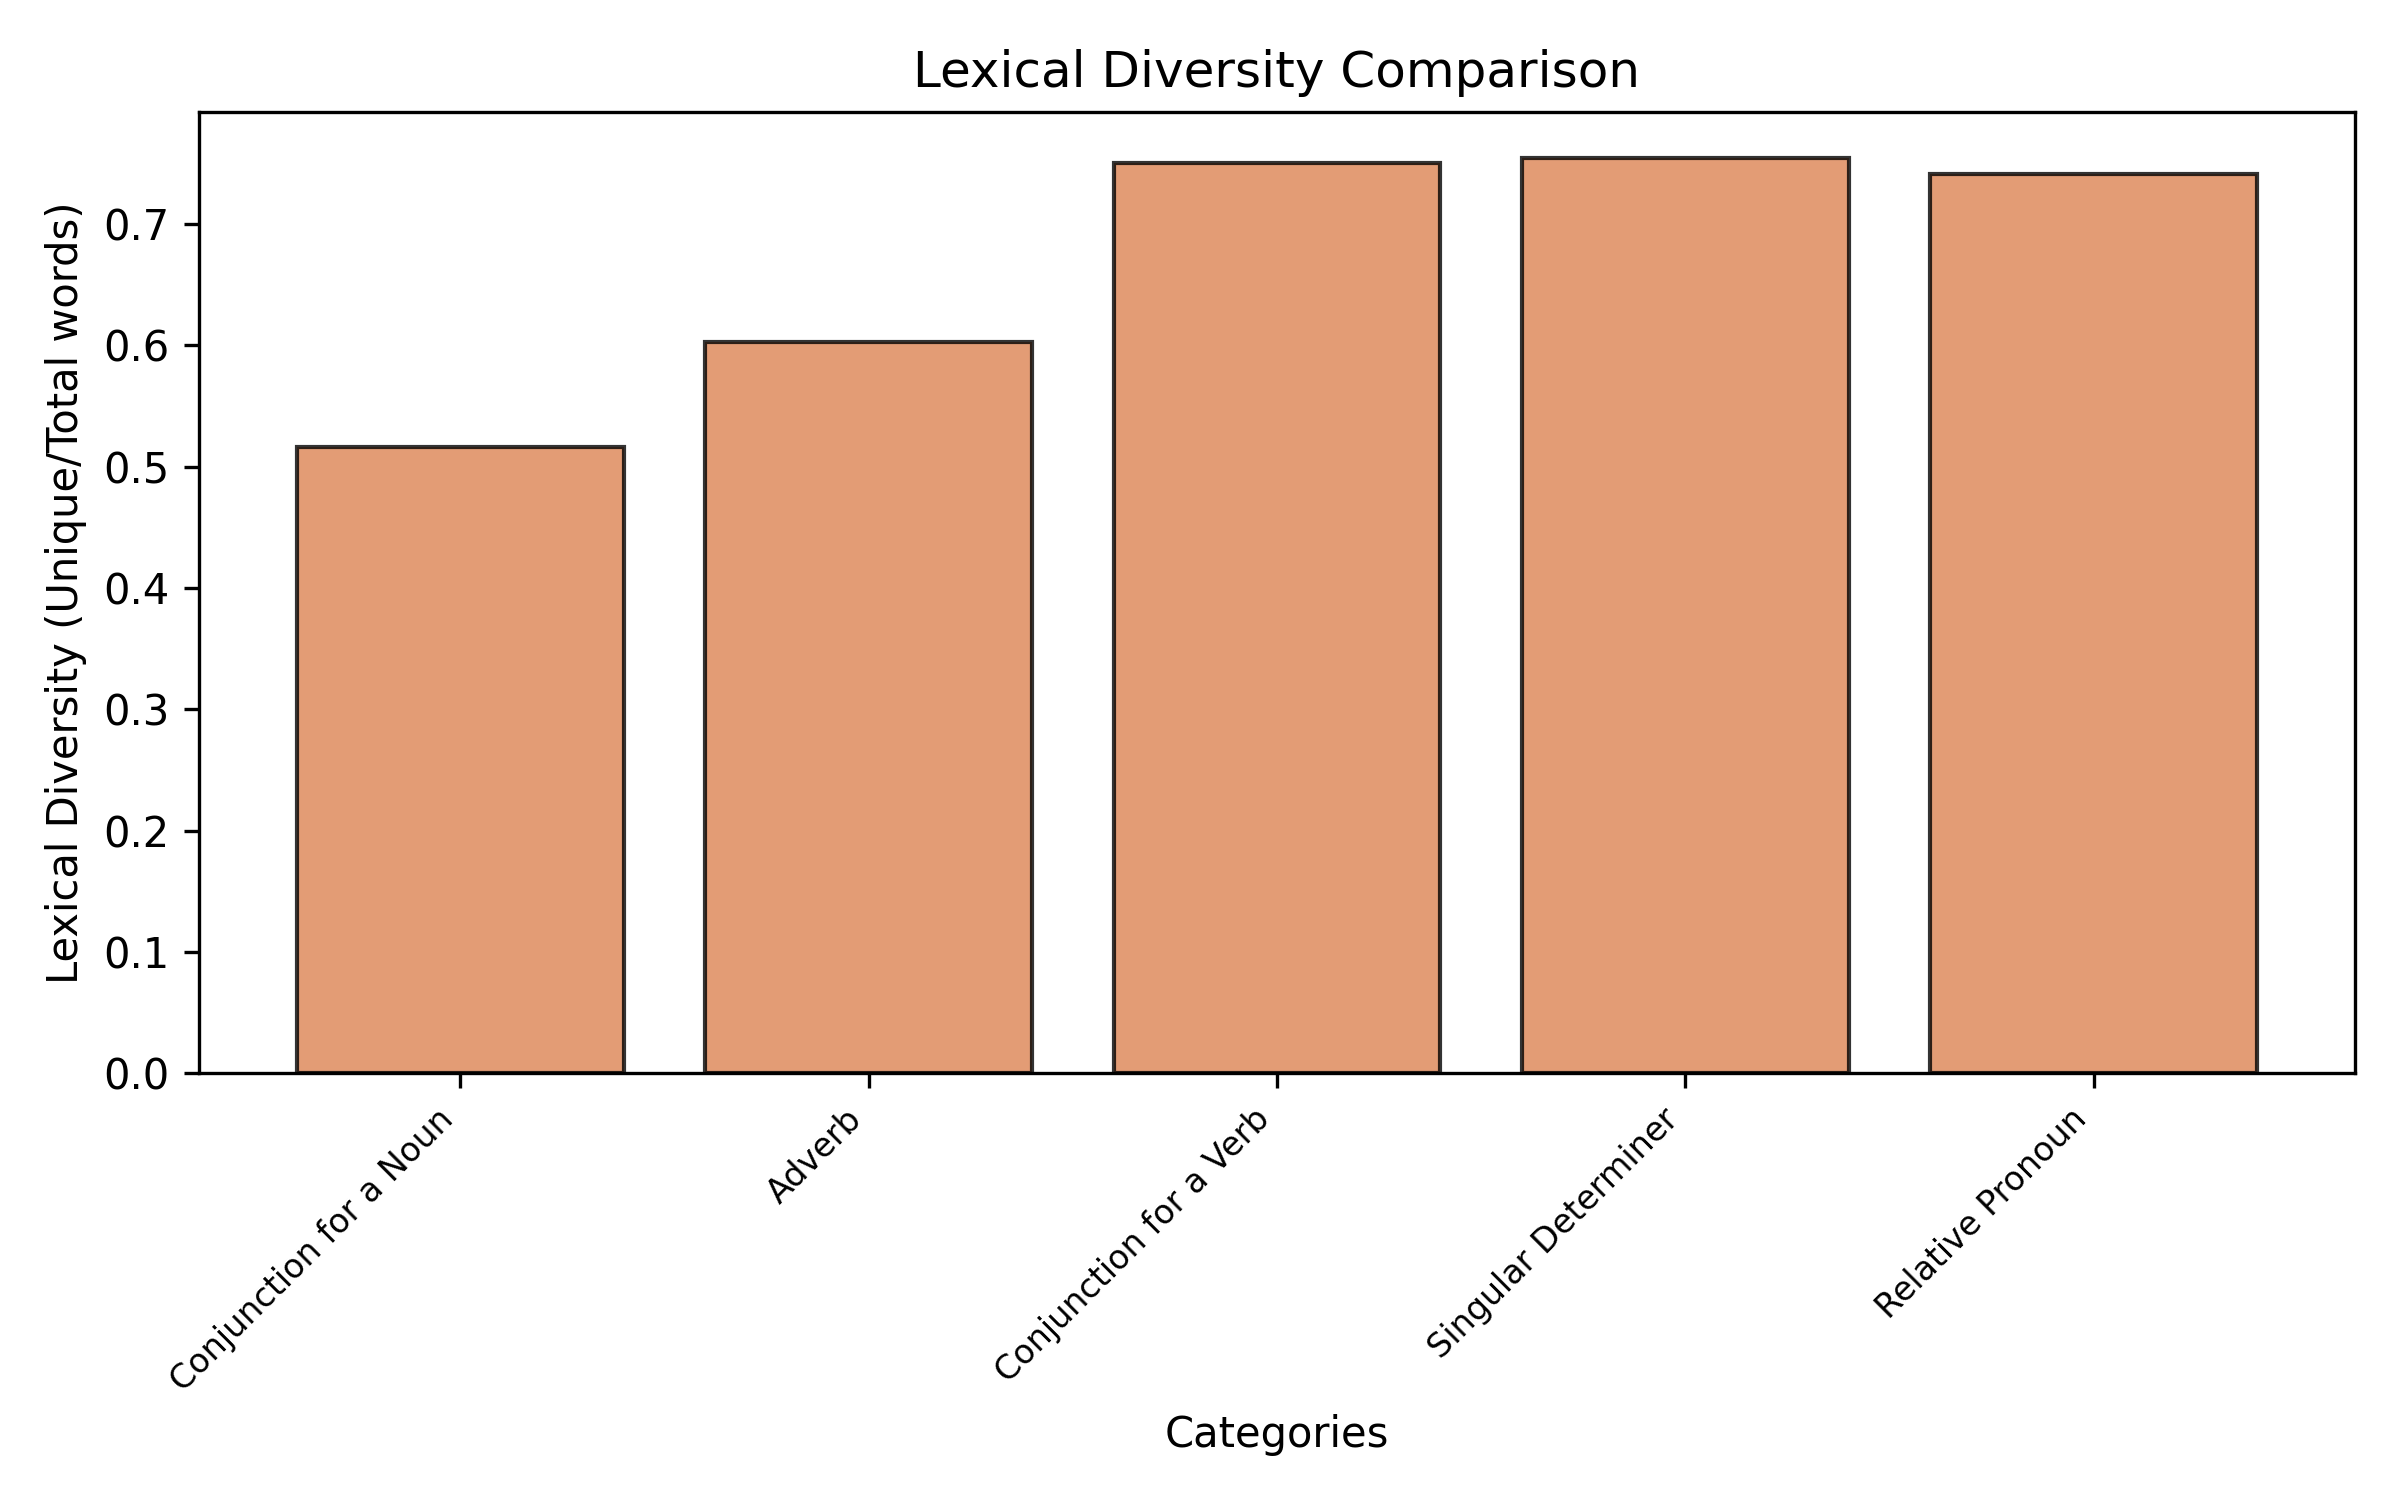
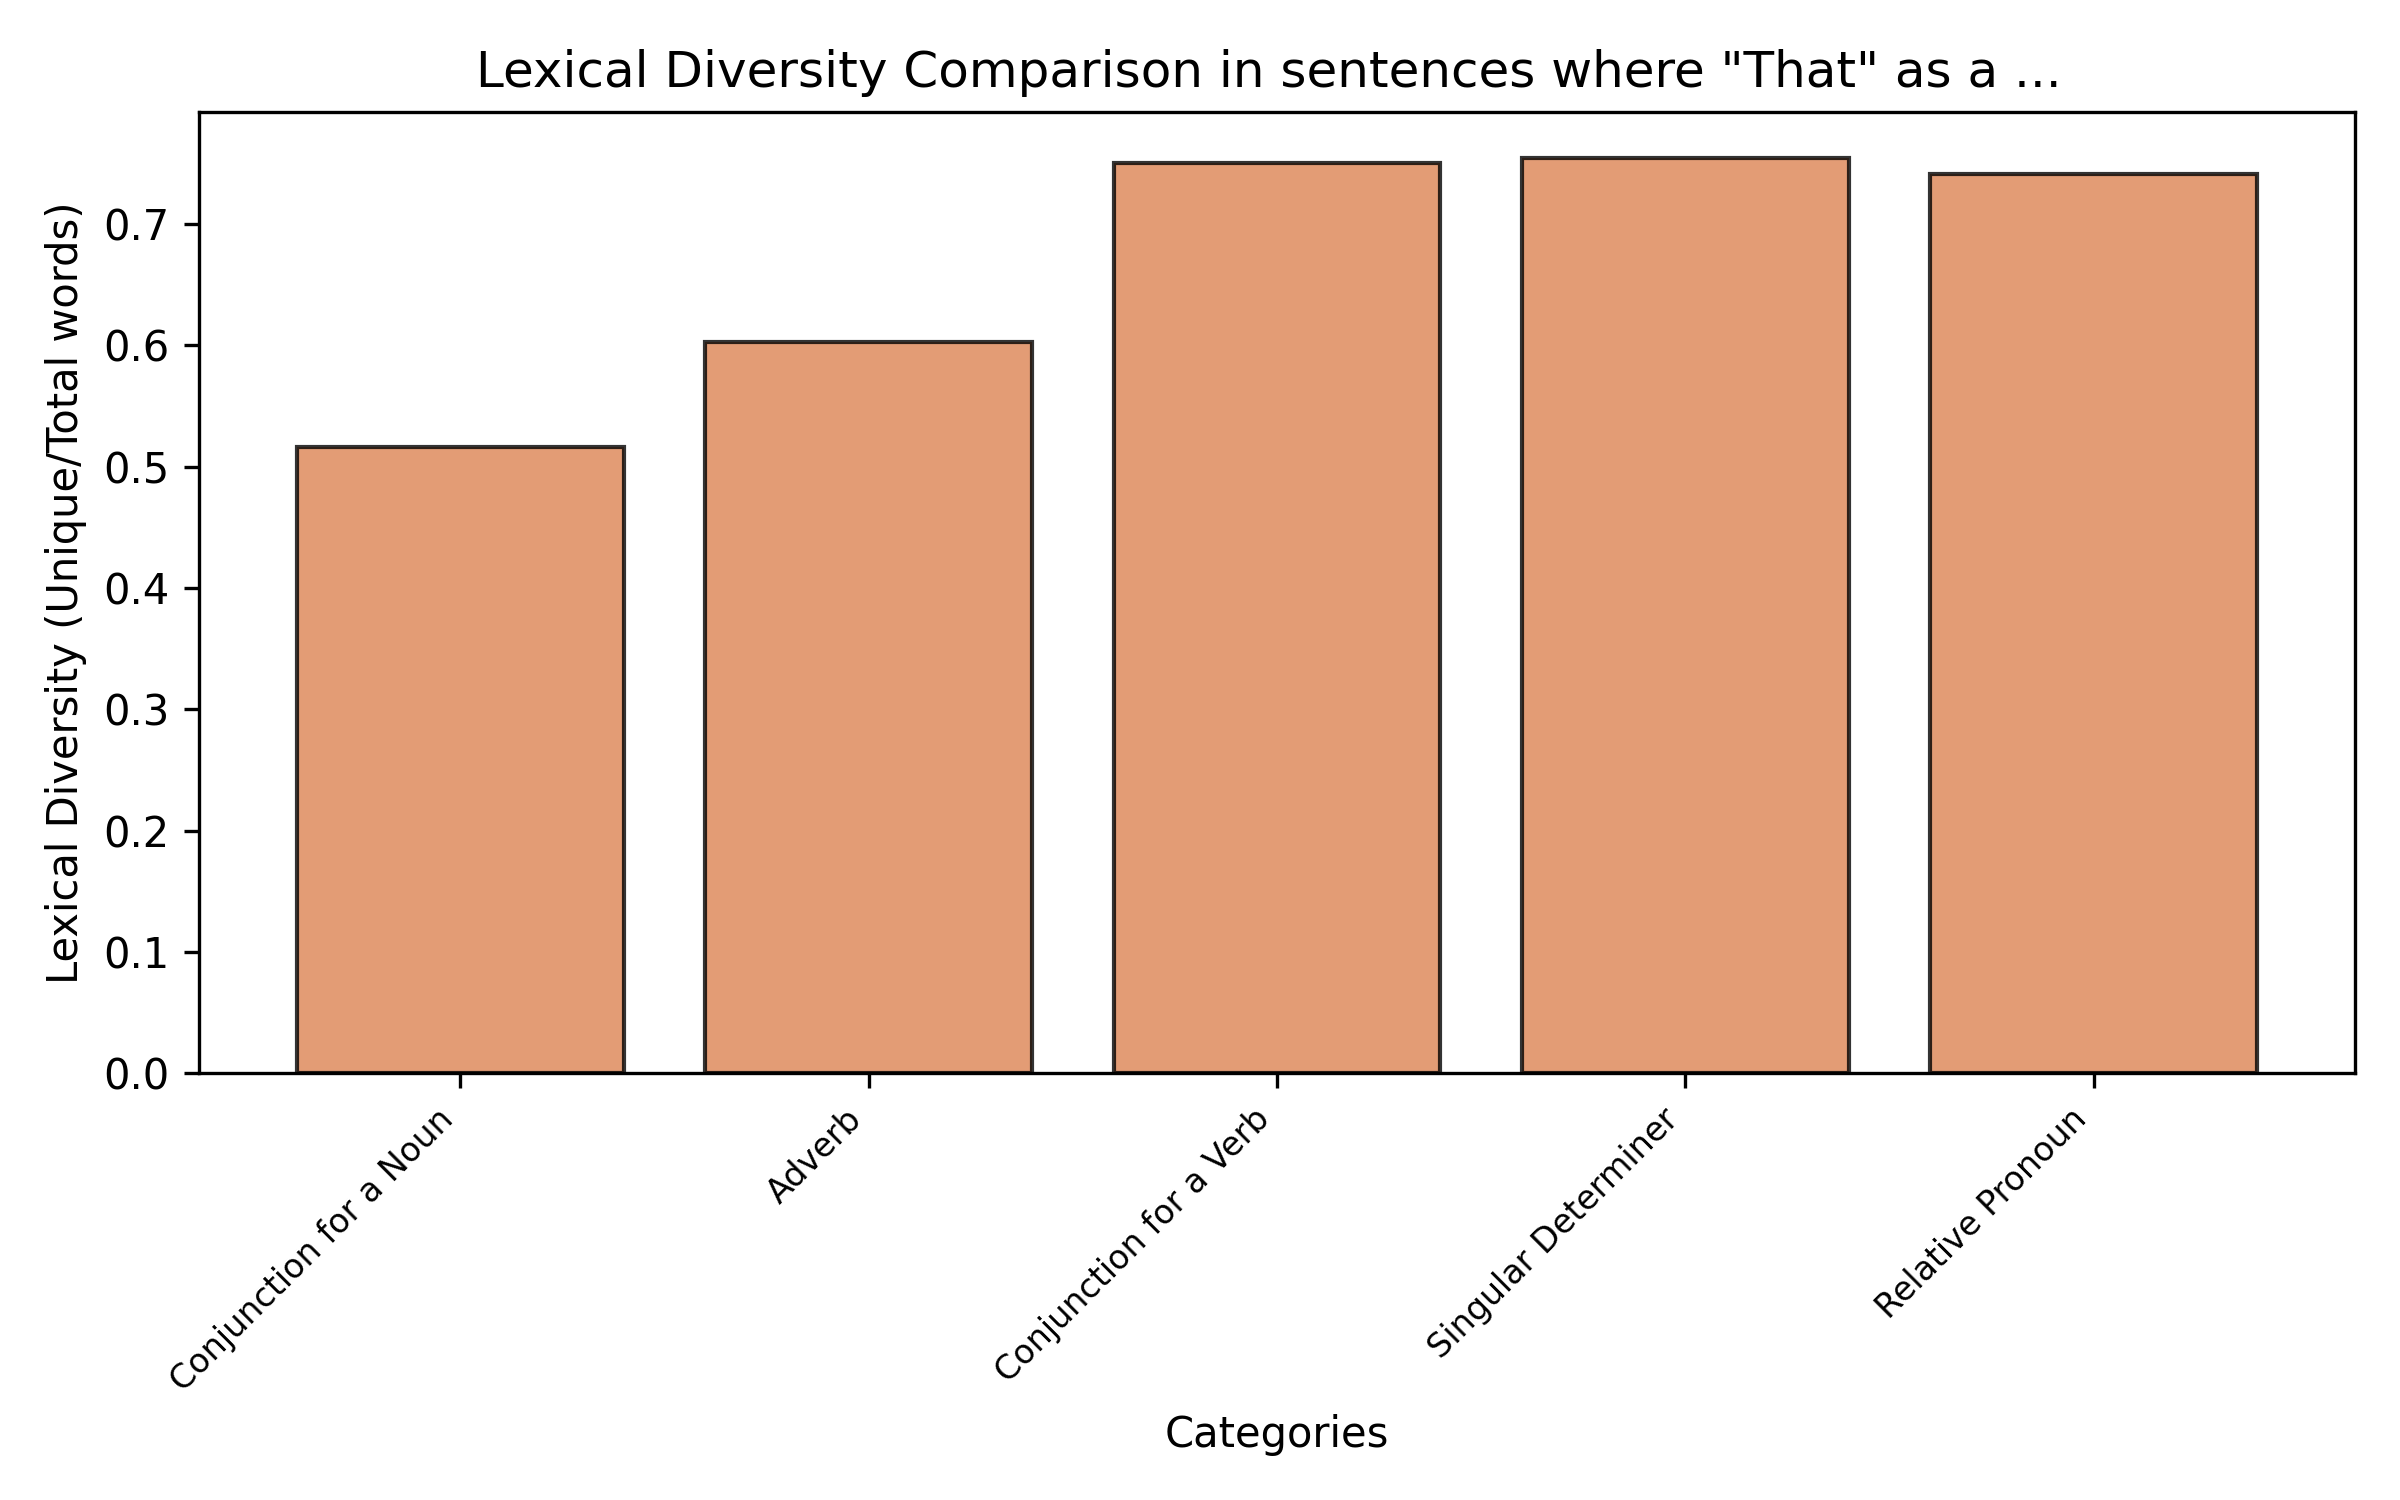
Statistical Analysis of test dataset

Changed region(s): [[0.1875, 0.0307, 0.8438, 0.0613]]

diff --git a/statical-analysis.py b/statical-analysis.py
@@ -160,7 +160,7 @@ plt.figure(figsize=(8, 5))
 plt.bar(display_lex_diversity.keys(), display_lex_diversity.values(), color=bar_color, edgecolor="black", alpha=0.8)
 plt.xlabel("Categories", fontsize=10)
 plt.ylabel("Lexical Diversity (Unique/Total words)", fontsize=10)
-plt.title("Lexical Diversity Comparison", fontsize=12)
+plt.title('Lexical Diversity Comparison in sentences where "That" as a ... ', fontsize=12)
 plt.xticks(rotation=45, ha="right", fontsize=8)
 plt.tight_layout()
 plt.savefig(os.path.join(output_folder, "lexical_diversity_comparison.png"), dpi=300)
